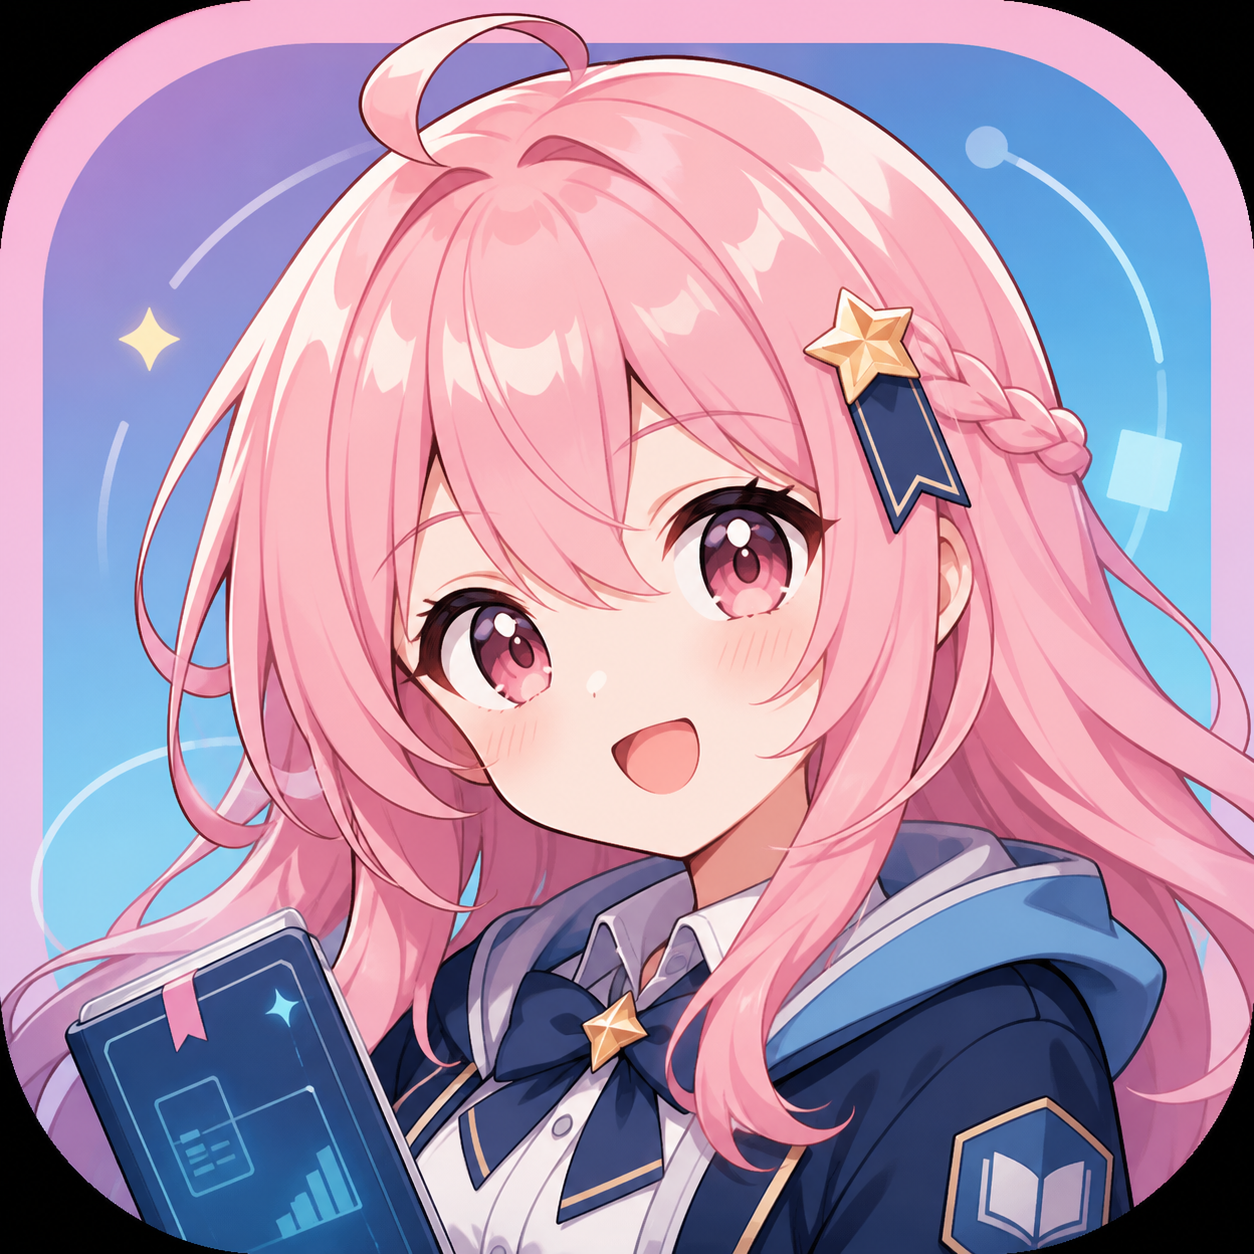
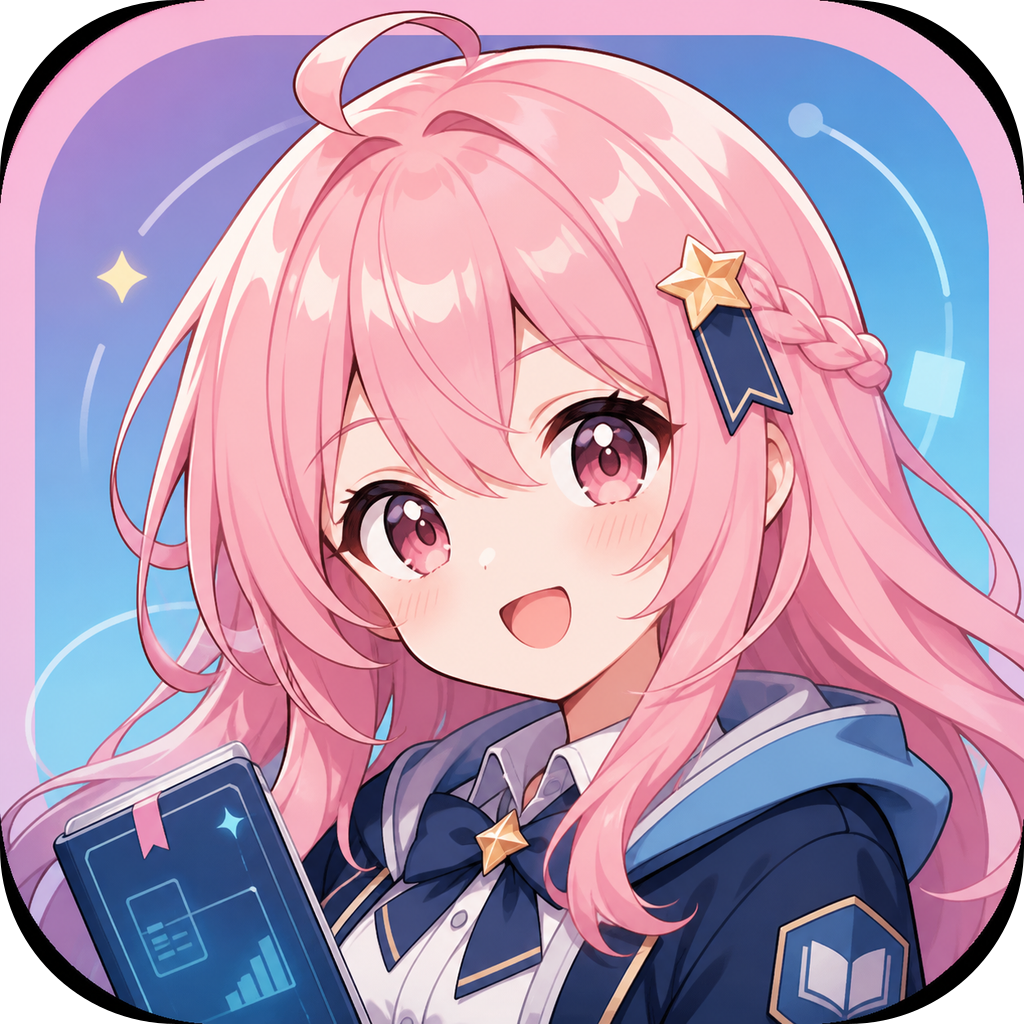
Release v1.0.7

diff --git a/electron/app-main.ts b/electron/app-main.ts
@@ -26,6 +26,7 @@ let autoSyncTimer: NodeJS.Timeout | null = null
 let autoSyncRunning = false
 let updatePromptVisible = false
 let updateDownloadStarted = false
+let updateLastProgressPercent = 0
 const downloadedFileCache = new Map<string, string>()
 const inFlightDownloadTasks = new Map<string, Promise<{ filePath: string }>>()
 
@@ -52,6 +53,13 @@ type CourseDownloadResource = {
   fileurl: string
 }
 
+type UpdaterStatusPayload = {
+  status: 'checking' | 'available' | 'downloading' | 'downloaded' | 'installing' | 'not-available' | 'error'
+  version?: string
+  percent?: number
+  message: string
+}
+
 const DEFAULT_PREFERENCES: AppPreferences = {
   language: 'zh-CN',
   themeMode: 'system',
@@ -65,6 +73,16 @@ const elapsed = (start: number) => `${Date.now() - start}ms`
 const syncTag = () => `sync-${Date.now().toString(36)}-${Math.random().toString(36).slice(2, 6)}`
 const FILE_NAME_SAFE_RE = /[<>:"/\\|?*\u0000-\u001F]/g
 const FORCE_DOWNLOAD_RE = /[?&]forcedownload=1(?:&|$)/i
+
+function getAppIconPath() {
+  if (process.platform === 'win32') {
+    return path.join(process.env.APP_ROOT, 'build', 'icons', 'icon.ico')
+  }
+  if (process.platform === 'linux') {
+    return path.join(process.env.APP_ROOT, 'build', 'icons', '512x512.png')
+  }
+  return path.join(process.env.VITE_PUBLIC, 'electron-vite.svg')
+}
 
 function sanitizeFilename(name: string) {
   return name.replace(FILE_NAME_SAFE_RE, '_').trim() || `download-${Date.now()}`
@@ -323,7 +341,7 @@ function createWindow() {
     minHeight: 600,
     frame: !isMac ? false : true,
     ...(isMac ? { titleBarStyle: 'hiddenInset' as const } : {}),
-    icon: path.join(process.env.VITE_PUBLIC, 'electron-vite.svg'),
+    icon: getAppIconPath(),
     webPreferences: {
       preload: path.join(__dirname, 'preload.mjs'),
       webviewTag: true,
@@ -339,6 +357,16 @@ function createWindow() {
   } else {
     win.loadFile(path.join(RENDERER_DIST, 'index.html'))
   }
+}
+
+function sendUpdaterStatus(payload: UpdaterStatusPayload) {
+  win?.webContents.send('updater:status', payload)
+}
+
+function resetUpdateProgressUi() {
+  win?.setProgressBar(-1)
+  if (win) win.setTitle('GTIIT Campus Dashboard - Installing update')
+  updateLastProgressPercent = 0
 }
 
 function registerIpcHandlers() {
@@ -753,26 +781,38 @@ function registerIpcHandlers() {
   handle('window:is-maximized', () => win?.isMaximized() ?? false)
 }
 
-function setupAutoUpdater() {
+
+function setupAutoUpdaterV2() {
   if (VITE_DEV_SERVER_URL) return
 
   autoUpdater.autoDownload = false
-  autoUpdater.autoInstallOnAppQuit = true
+  autoUpdater.autoInstallOnAppQuit = false
 
   autoUpdater.on('checking-for-update', () => {
     console.log('[updater] checking for updates')
+    sendUpdaterStatus({
+      status: 'checking',
+      message: 'Checking for updates...',
+    })
   })
+
   autoUpdater.on('update-available', async (info) => {
     console.log(`[updater] update available: ${info.version}`)
     if (updatePromptVisible || updateDownloadStarted) return
     updatePromptVisible = true
+    sendUpdaterStatus({
+      status: 'available',
+      version: info.version,
+      message: `New version v${info.version} is available.`,
+    })
+
     try {
       const messageBoxOptions: Electron.MessageBoxOptions = {
         type: 'info',
-        title: '发现新版本',
-        message: `发现新版本 v${info.version}，是否立即更新？`,
-        detail: '点击“立即更新”后将开始后台下载，下载完成后将在退出应用时自动安装。',
-        buttons: ['稍后', '立即更新'],
+        title: 'Update available',
+        message: `New version v${info.version} is available. Update now?`,
+        detail: 'Click Update Now to download in the background. When the download finishes, the app will quit, install the update, and restart automatically.',
+        buttons: ['Later', 'Update Now'],
         cancelId: 0,
         defaultId: 1,
         noLink: true,
@@ -780,10 +820,25 @@ function setupAutoUpdater() {
       const result = win
         ? await dialog.showMessageBox(win, messageBoxOptions)
         : await dialog.showMessageBox(messageBoxOptions)
+
       if (result.response === 1) {
         updateDownloadStarted = true
+        updateLastProgressPercent = 0
+        win?.setProgressBar(0)
+        sendUpdaterStatus({
+          status: 'downloading',
+          version: info.version,
+          percent: 0,
+          message: `Downloading v${info.version} in the background. The app will restart automatically after the download completes.`,
+        })
         void autoUpdater.downloadUpdate().catch((error) => {
           updateDownloadStarted = false
+          resetUpdateProgressUi()
+          sendUpdaterStatus({
+            status: 'error',
+            version: info.version,
+            message: error instanceof Error ? error.message : String(error),
+          })
           console.error('[updater] download failed:', error)
         })
       } else {
@@ -795,17 +850,61 @@ function setupAutoUpdater() {
       updatePromptVisible = false
     }
   })
+
   autoUpdater.on('update-not-available', (info) => {
     console.log(`[updater] no updates. current target: ${info.version}`)
+    sendUpdaterStatus({
+      status: 'not-available',
+      version: info.version,
+      message: 'You are already on the latest version.',
+    })
   })
+
   autoUpdater.on('download-progress', (progress) => {
     const percent = progress.percent.toFixed(1)
     console.log(`[updater] download ${percent}% (${Math.round(progress.bytesPerSecond / 1024)} KB/s)`)
+    const progressValue = Math.max(0, Math.min(1, progress.percent / 100))
+    win?.setProgressBar(progressValue)
+    if (win) win.setTitle(`GTIIT Campus Dashboard - Downloading update ${percent}%`)
+    const wholePercent = Math.floor(progress.percent)
+    if (wholePercent >= updateLastProgressPercent + 10 || wholePercent >= 100) {
+      updateLastProgressPercent = wholePercent
+      sendUpdaterStatus({
+        status: 'downloading',
+        percent: progress.percent,
+        message: `Downloading update ${percent}%`,
+      })
+    }
   })
+
   autoUpdater.on('update-downloaded', (info) => {
-    console.log(`[updater] update downloaded: ${info.version}, will install on quit`)
+    console.log(`[updater] update downloaded: ${info.version}, installing now`)
+    win?.setProgressBar(1)
+    if (win) win.setTitle('GTIIT Campus Dashboard - Installing update')
+    sendUpdaterStatus({
+      status: 'downloaded',
+      version: info.version,
+      percent: 100,
+      message: `v${info.version} has downloaded. Restarting to install now.`,
+    })
+    sendUpdaterStatus({
+      status: 'installing',
+      version: info.version,
+      percent: 100,
+      message: 'The app will quit and install the update now.',
+    })
+    setTimeout(() => {
+      autoUpdater.quitAndInstall(false, true)
+    }, 1200)
   })
+
   autoUpdater.on('error', (error) => {
+    updateDownloadStarted = false
+    resetUpdateProgressUi()
+    sendUpdaterStatus({
+      status: 'error',
+      message: error instanceof Error ? error.message : String(error),
+    })
     console.error('[updater] failed:', error)
   })
 
@@ -888,7 +987,7 @@ app.whenReady().then(() => {
     void runAutoSyncIfDue()
   }, AUTO_SYNC_CHECK_MS)
   createWindow()
-  setupAutoUpdater()
+  setupAutoUpdaterV2()
 }).catch((error) => {
   console.error('[main] app init failed:', error)
 })

diff --git a/src/App.vue b/src/App.vue
@@ -1,5 +1,5 @@
 <script setup lang="ts">
-import { computed, onMounted, ref } from 'vue'
+import { computed, onMounted, onBeforeUnmount, ref } from 'vue'
 import { useRouter } from 'vue-router'
 import type { TimelineEvent, UnifiedCourse } from './types'
 import { useAuth } from './composables/useAuth'
@@ -73,6 +73,7 @@ const language = ref<'zh-CN' | 'en-US'>('zh-CN')
 const autoSyncIntervalHours = ref<0 | 6 | 24>(24)
 const downloadDirectory = ref('')
 const appVersion = ref('')
+let removeUpdaterStatusListener: (() => void) | null = null
 
 // ── Cross-cutting orchestration ───────────────────────────────────────────────
 
@@ -349,6 +350,19 @@ const handleBackFromSubmission = () => {
 }
 
 onMounted(async () => {
+  removeUpdaterStatusListener = window.electronAPI.onUpdaterStatus((payload) => {
+    if (payload.status === 'downloading') {
+      notifySuccess(payload.message, '更新下载中')
+      return
+    }
+    if (payload.status === 'downloaded' || payload.status === 'installing') {
+      notifySuccess(payload.message, '准备安装更新')
+      return
+    }
+    if (payload.status === 'error') {
+      notifyError(payload.message, '更新失败')
+    }
+  })
   try {
     const platform = await window.electronAPI.appPlatform()
     isMac.value = platform === 'darwin'
@@ -387,6 +401,11 @@ onMounted(async () => {
   } else if (autoSsoLogin.value && !loggingIn.value) {
     void handleSsoLogin()
   }
+})
+
+onBeforeUnmount(() => {
+  removeUpdaterStatusListener?.()
+  removeUpdaterStatusListener = null
 })
 </script>
 

diff --git a/electron/preload.ts b/electron/preload.ts
@@ -182,6 +182,21 @@ const electronAPI = {
     ipcRenderer.on('main-process-message', listener)
     return () => ipcRenderer.off('main-process-message', listener)
   },
+  onUpdaterStatus(callback: (payload: {
+    status: 'checking' | 'available' | 'downloading' | 'downloaded' | 'installing' | 'not-available' | 'error'
+    version?: string
+    percent?: number
+    message: string
+  }) => void) {
+    const listener = (_event: Electron.IpcRendererEvent, payload: {
+      status: 'checking' | 'available' | 'downloading' | 'downloaded' | 'installing' | 'not-available' | 'error'
+      version?: string
+      percent?: number
+      message: string
+    }) => callback(payload)
+    ipcRenderer.on('updater:status', listener)
+    return () => ipcRenderer.off('updater:status', listener)
+  },
   moodleLogin(payload: { username: string; password: string; rememberPassword?: boolean }) {
     return ipcRenderer.invoke('moodle:login', payload) as Promise<MoodleUser>
   },

diff --git a/src/vite-env.d.ts b/src/vite-env.d.ts
@@ -184,6 +184,12 @@ interface Window {
     notebookOpenCourse: (payload: { course: { courseKey: string; courseCode: string; courseName: string } }) => Promise<boolean>
     notebookOpenCourseFolder: (payload: { course: { courseKey: string; courseCode: string; courseName: string } }) => Promise<boolean>
     onMainMessage: (callback: (message: string) => void) => () => void
+    onUpdaterStatus: (callback: (payload: {
+      status: 'checking' | 'available' | 'downloading' | 'downloaded' | 'installing' | 'not-available' | 'error'
+      version?: string
+      percent?: number
+      message: string
+    }) => void) => () => void
     moodleLogin: (payload: { username: string; password: string; rememberPassword?: boolean }) => Promise<{
       username: string
       fullName: string
